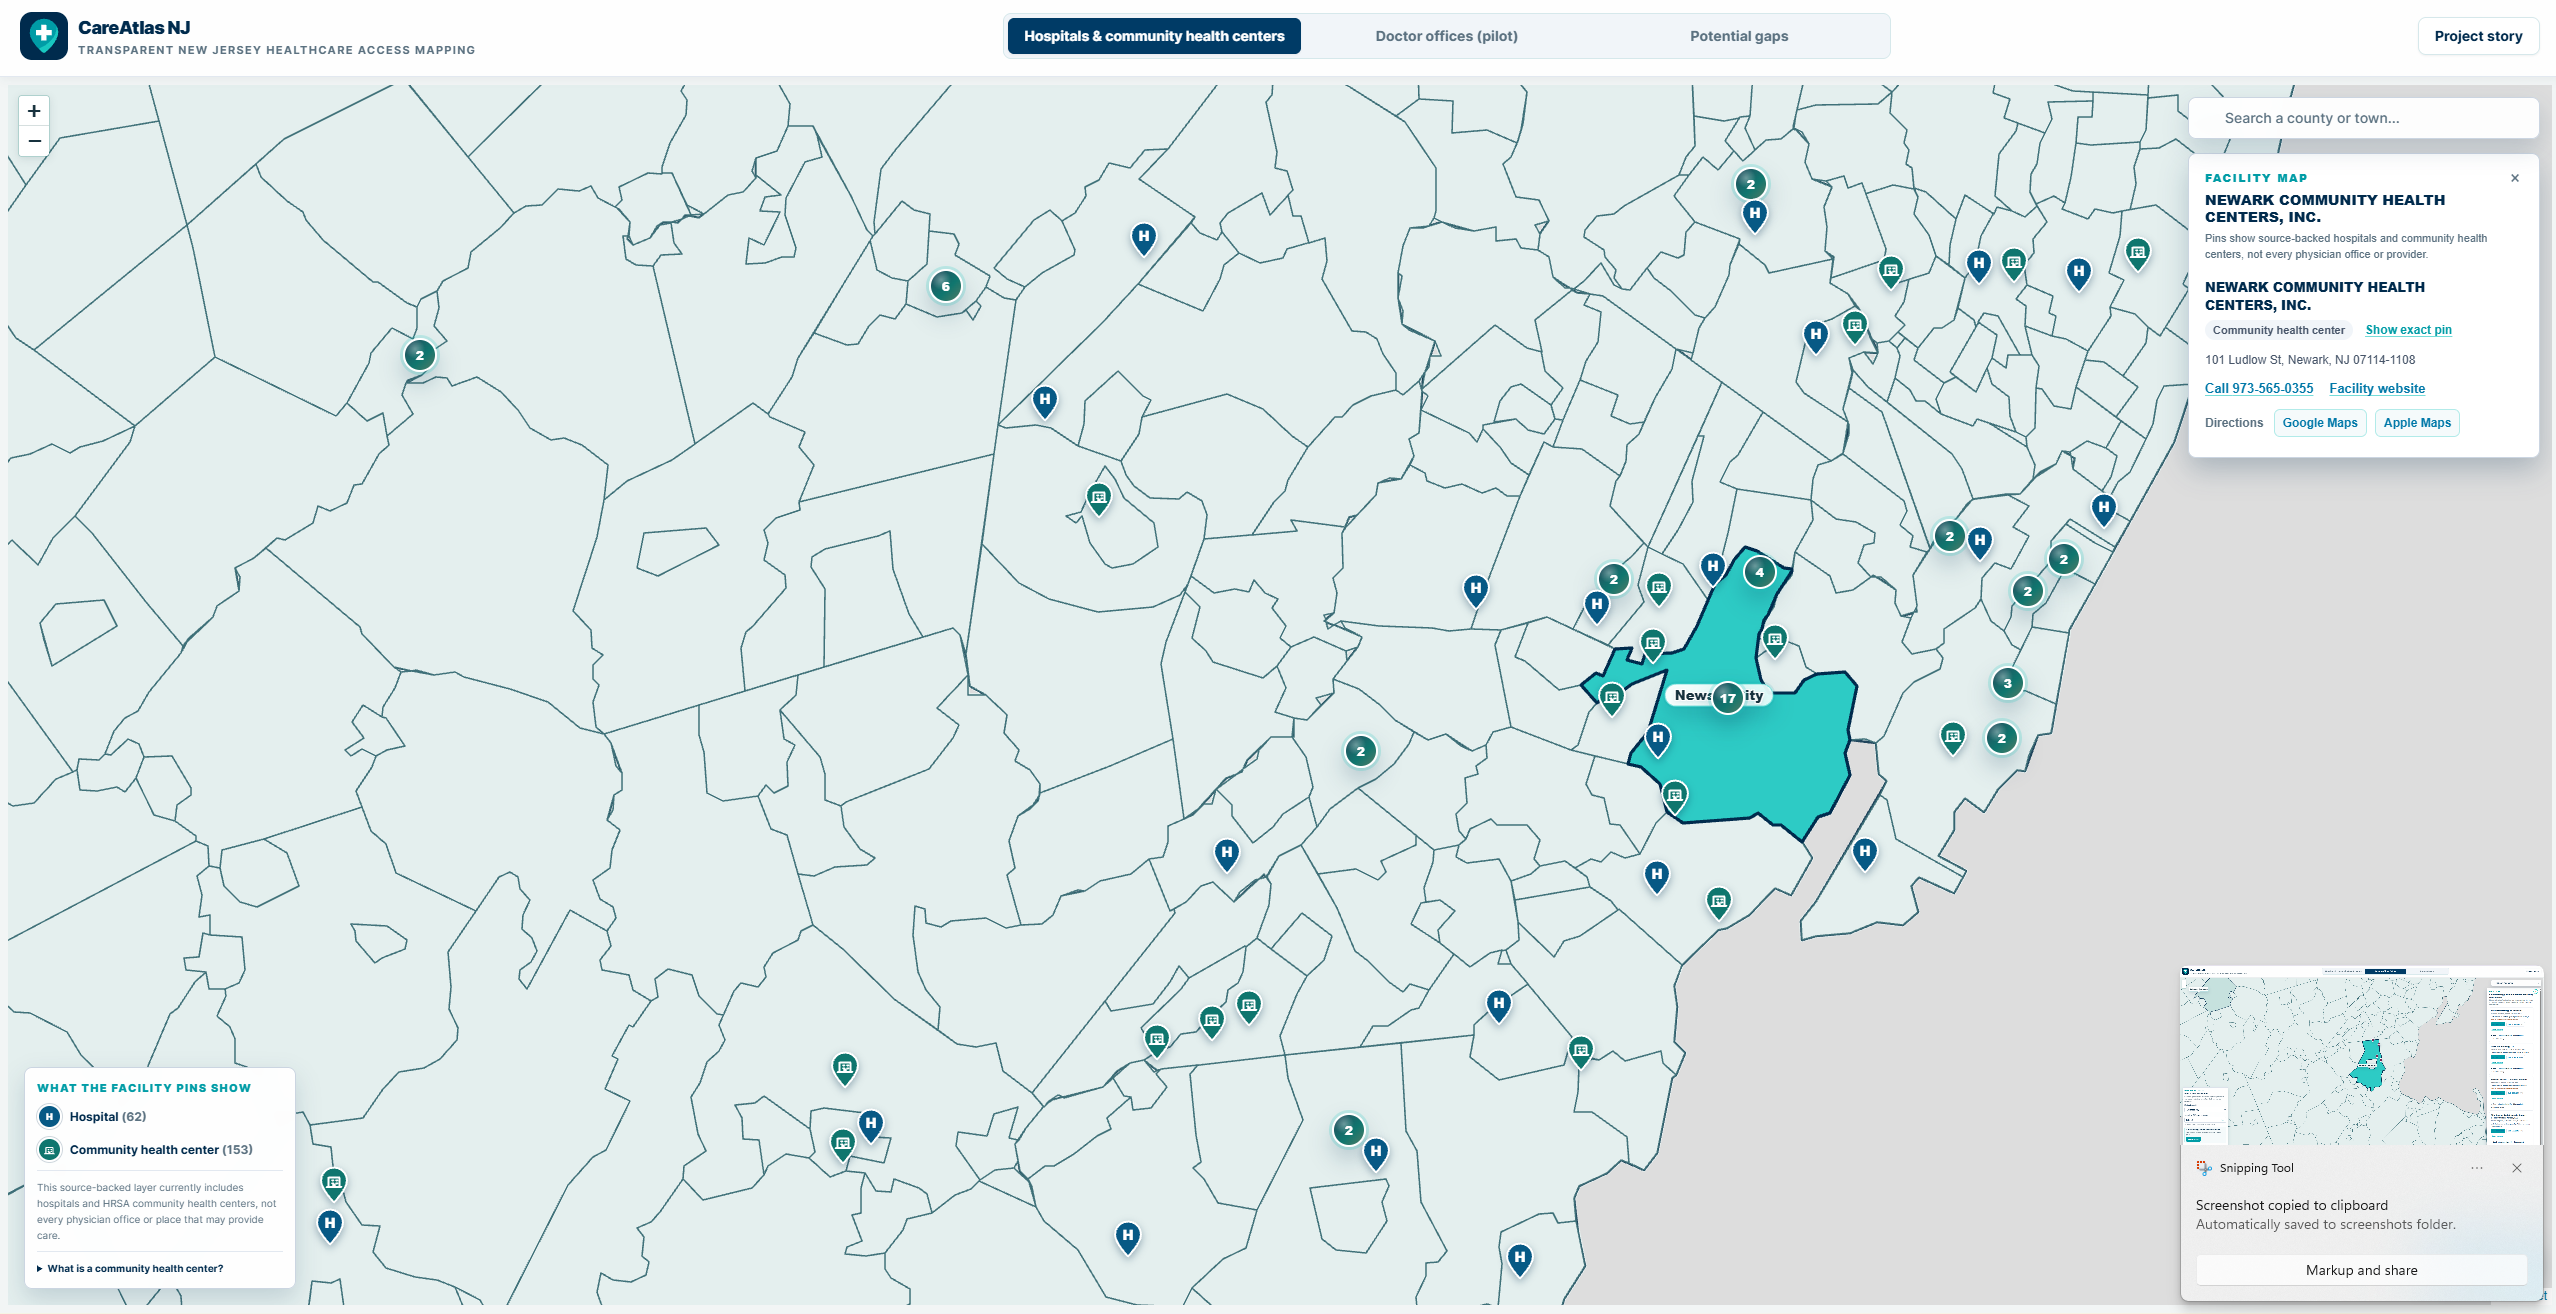
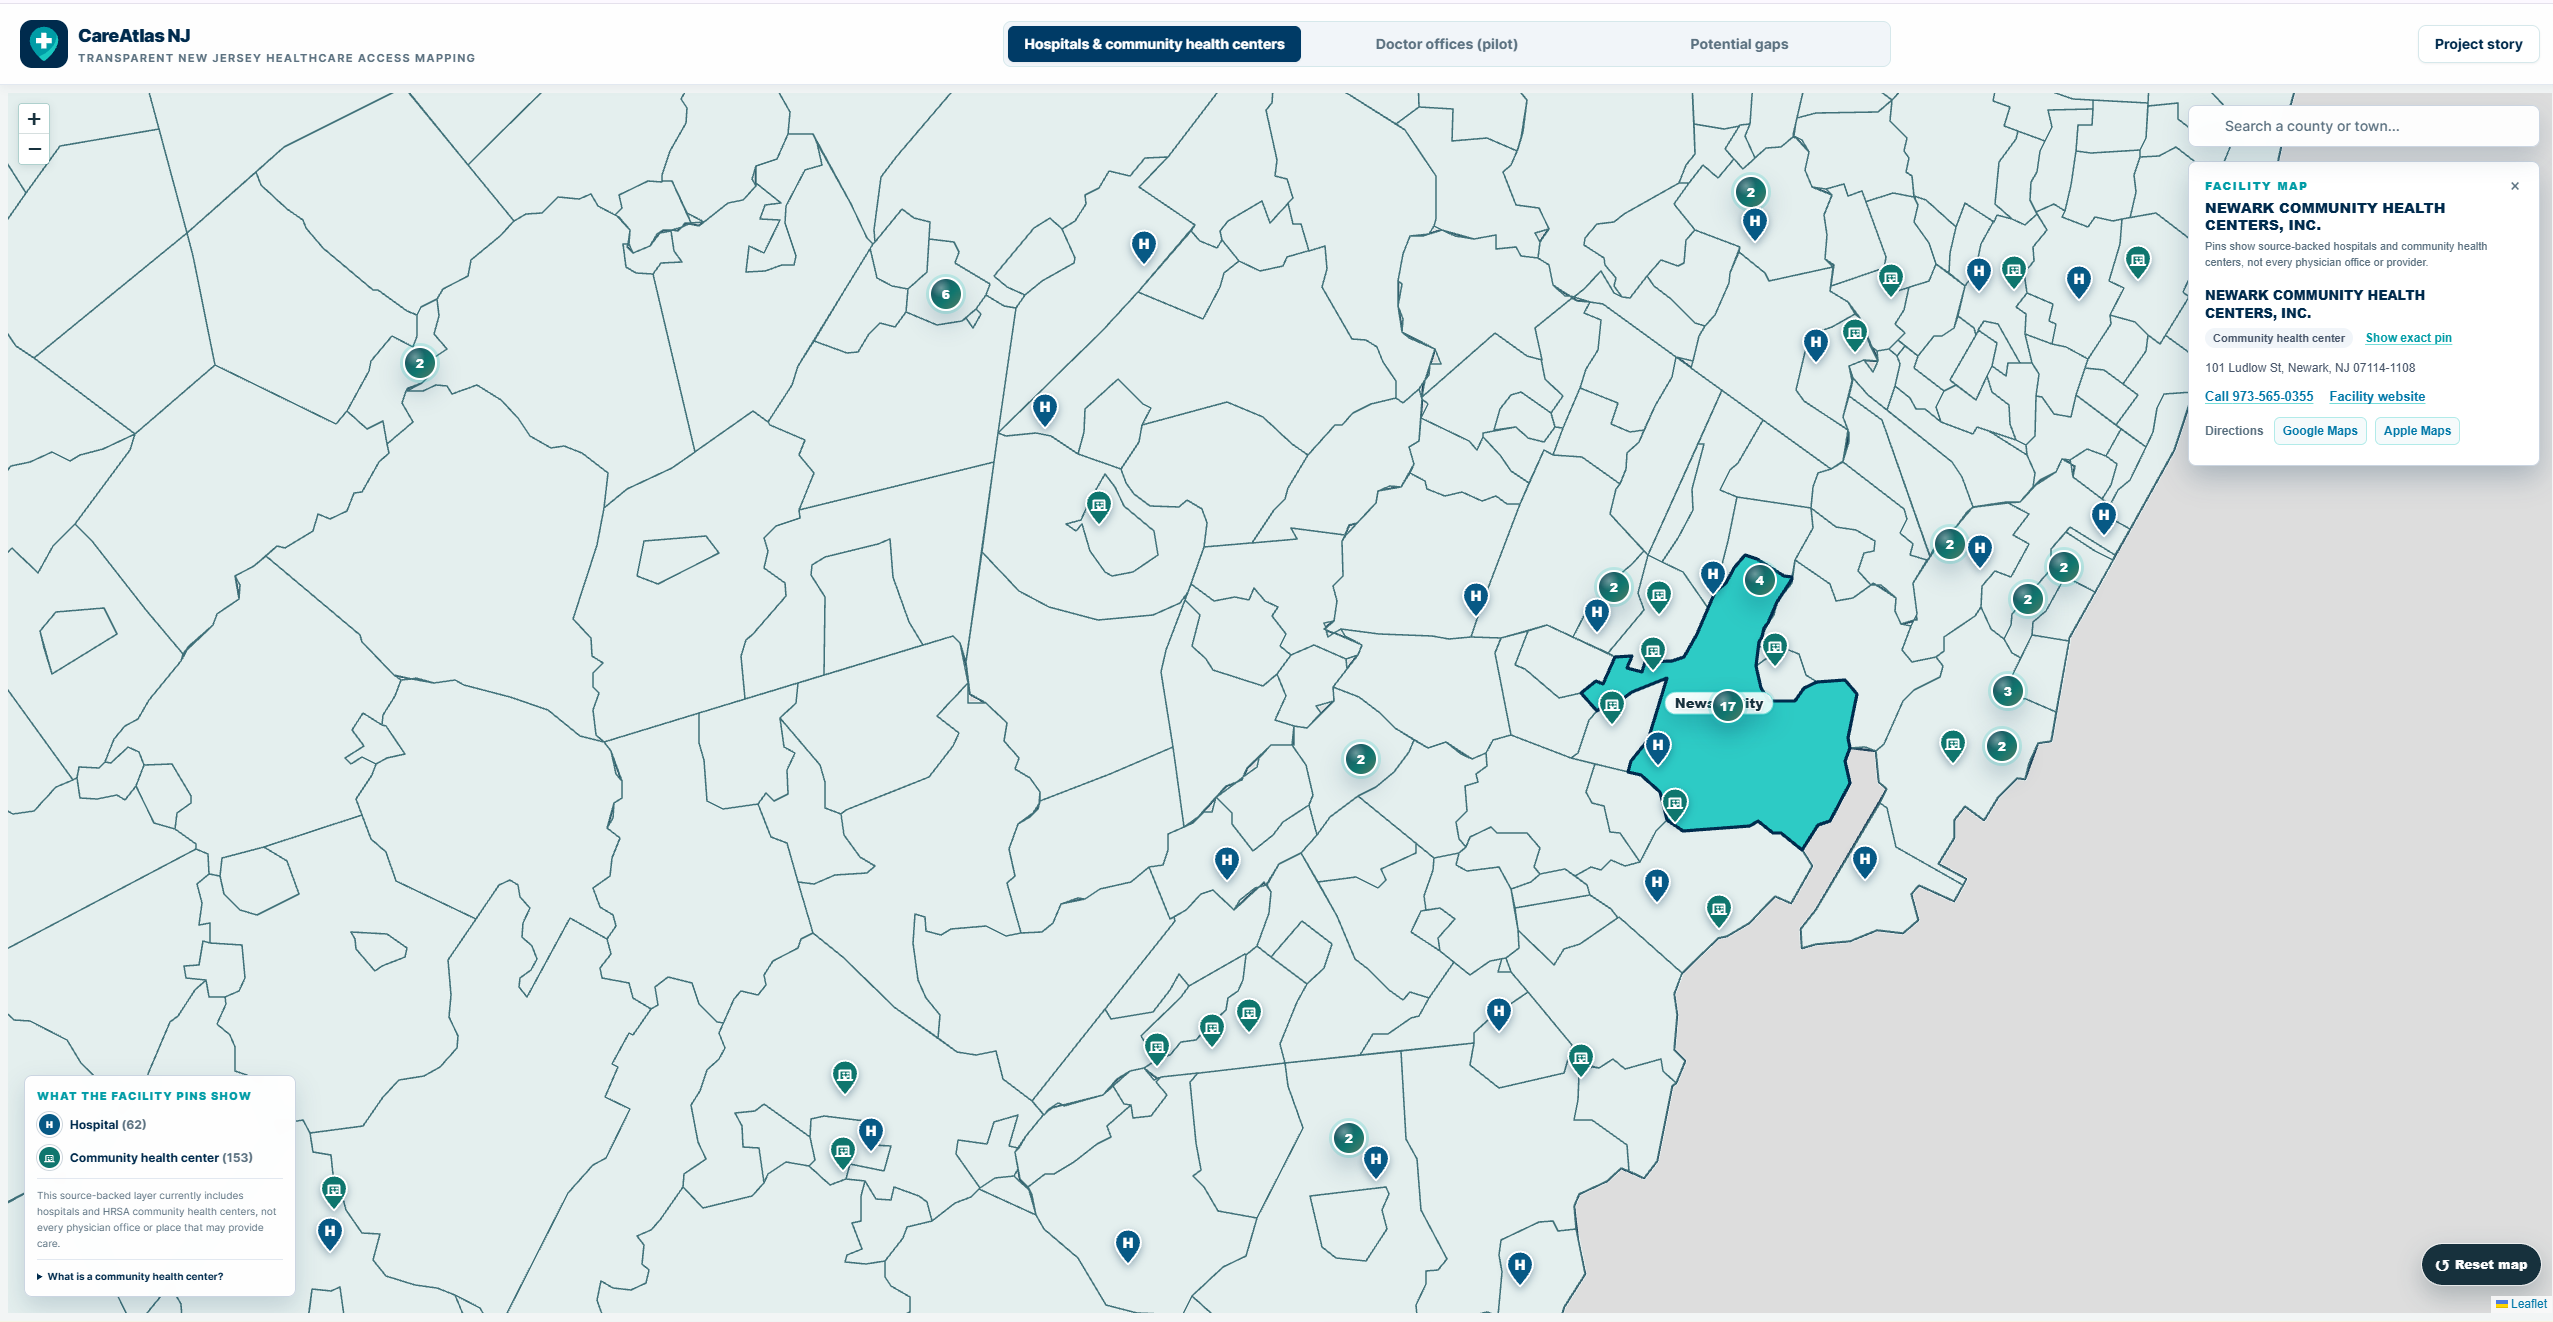
Replace Newark submission screenshot with clean capture

diff --git a/docs/submission/README.md b/docs/submission/README.md
@@ -11,7 +11,7 @@ Updated September 17, 2026. This package documents completed engineering work an
 - [Contribution and source inventory](contribution.md): pipeline, source versions, attribution, development chronology and AI assistance.
 - [Technical methods review](methods-review.md), including [reproducible sensitivity results](sensitivity.json). Re-run with `node scripts/reviewScreeningSensitivity.mjs`.
 - [Browser review](browser-review.md): five agent-operated scenarios, observed fixes and explicit testing limits.
-- Submission screenshots: [Newark facility map](assets/newark-facility-map.png), [Edison dermatology offices](assets/edison-dermatology-offices.png), [tract explanation](assets/tract.png), [town search](assets/search.png), [Newark summary](assets/newark.png), [source evidence](assets/sources.png), [export controls](assets/export.png), [mobile missing evidence](assets/mobile-missing.png). The September 17 facility screenshot has a visible Snipping Tool notification; its pixels have not been altered.
+- Submission screenshots: [Newark facility map](assets/newark-facility-map.png), [Edison dermatology offices](assets/edison-dermatology-offices.png), [tract explanation](assets/tract.png), [town search](assets/search.png), [Newark summary](assets/newark.png), [source evidence](assets/sources.png), [export controls](assets/export.png), [mobile missing evidence](assets/mobile-missing.png). The September 17 facility screenshot is a clean, unedited copy of the author's capture.
 
 ## Validation and fixes
 

diff --git a/docs/submission/devpost-draft.md b/docs/submission/devpost-draft.md
@@ -69,7 +69,7 @@ React; TypeScript; Vite; Tailwind CSS; Leaflet; React Leaflet; Node.js; Cloudfla
 - Live application: <https://careatlas.lmayzel930.workers.dev>
 - Repository: <https://github.com/methmoussa/careatlas-nj>
 - Video: pending. Record and host a 2–5 minute live demonstration using the [recording script](demo-recording-script.md). The older [screenshot-based walkthrough](assets/careatlas-walkthrough.mp4) is a planning artifact, not the intended submission video.
-- Gallery: the saved and previewed Devpost draft shows the CareAtlas brand card, [Newark facility map](assets/newark-facility-map.png), [Edison dermatology offices](assets/edison-dermatology-offices.png), then [tract evidence](assets/tract.png). The two new captures are unedited copies of the author's September 17 screenshots. The facility capture includes a Snipping Tool notification and thumbnail in the lower-right corner; a clean replacement would improve presentation.
+- Gallery: the saved and previewed Devpost draft shows the CareAtlas brand card, [Newark facility map](assets/newark-facility-map.png), [Edison dermatology offices](assets/edison-dermatology-offices.png), then [tract evidence](assets/tract.png). The two new captures are unedited copies of the author's September 17 screenshots; the Newark file is the clean replacement capture.
 - Project card: [PNG](assets/careatlas-brand-card.png) and editable [SVG](assets/careatlas-brand-card.svg).
 
 ## Remaining steps
